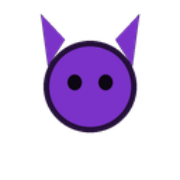
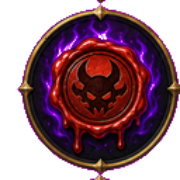
build(web): publish phase 11s fixed route playtest

diff --git a/web_Demo/index.html b/web_Demo/index.html
@@ -3,7 +3,7 @@
 	<head>
 		<meta charset="utf-8">
 		<meta name="viewport" content="width=device-width, user-scalable=no, initial-scale=1.0">
-		<title>마왕님, 마왕성 지켜주세요! Demo</title>
+		<title>마왕님, 마왕성은 누가 지켜요?</title>
 		<style>
 html, body, #canvas {
 	margin: 0;
@@ -111,7 +111,7 @@ body {
 
 		<script src="index.js"></script>
 		<script>
-const GODOT_CONFIG = {"args":[],"canvasResizePolicy":2,"emscriptenPoolSize":8,"ensureCrossOriginIsolationHeaders":true,"executable":"index","experimentalVK":false,"fileSizes":{"index.pck":88750392,"index.wasm":38047590},"focusCanvas":true,"gdextensionLibs":[],"godotPoolSize":4};
+const GODOT_CONFIG = {"args":[],"canvasResizePolicy":2,"emscriptenPoolSize":8,"ensureCrossOriginIsolationHeaders":true,"executable":"index","experimentalVK":false,"fileSizes":{"index.pck":231614192,"index.wasm":38047590},"focusCanvas":true,"gdextensionLibs":[],"godotPoolSize":4};
 const GODOT_THREADS_ENABLED = false;
 const engine = new Engine(GODOT_CONFIG);
 